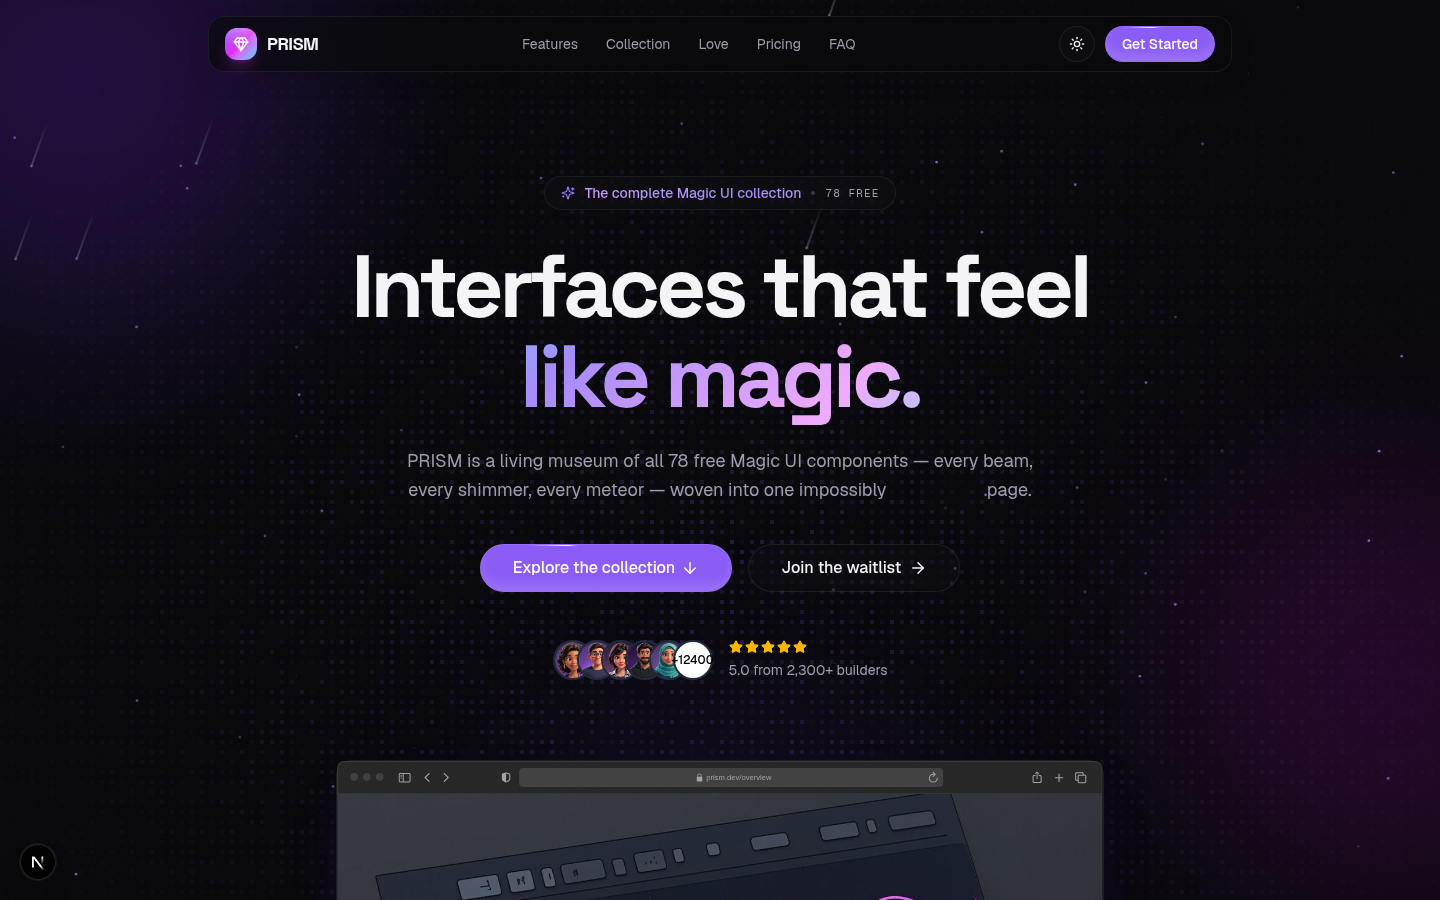
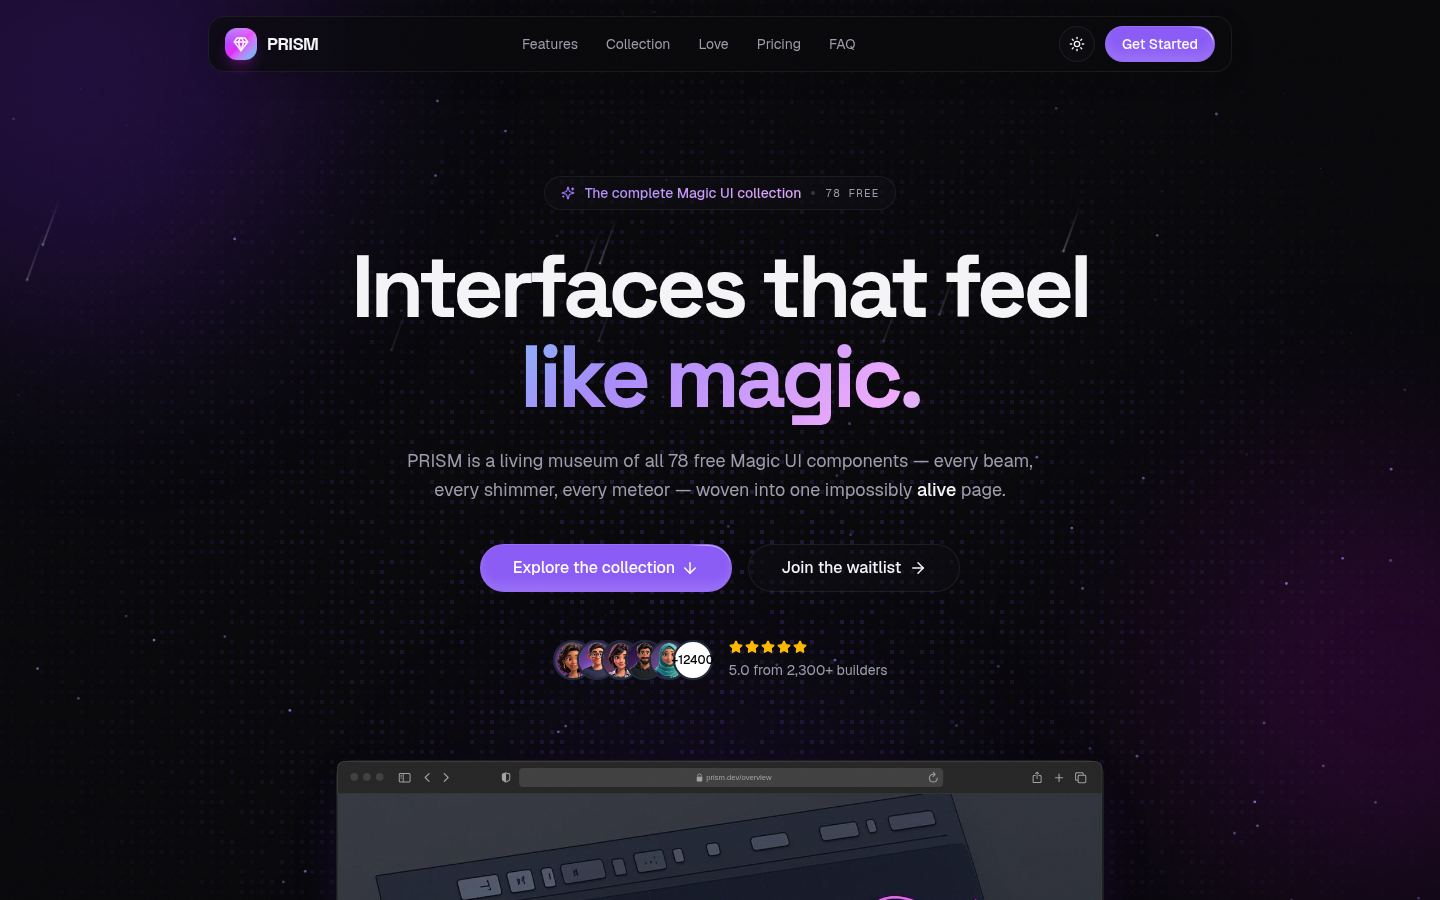
chore: disable dev indicators and refresh screenshots

Changed region(s): [[0.2812, 0.5289, 0.7188, 0.56]]

diff --git a/next.config.ts b/next.config.ts
@@ -2,7 +2,7 @@ import type { NextConfig } from "next";
 
 const nextConfig: NextConfig = {
   output: "standalone",
-  /* config options here */
+  devIndicators: false,
   typescript: {
     ignoreBuildErrors: true,
   },
